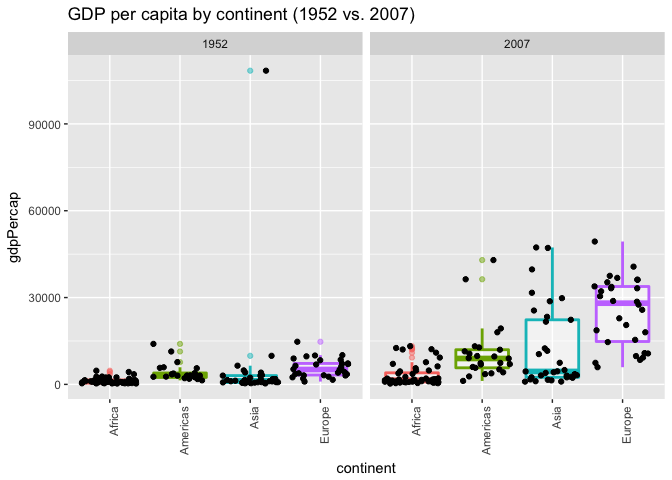
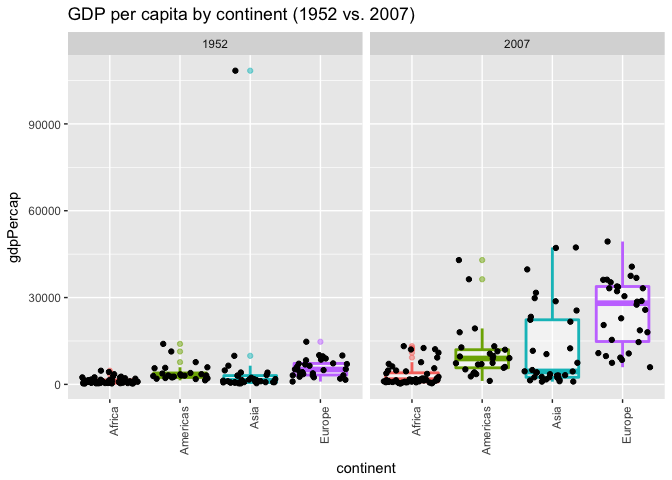
fix jitter typo

diff --git a/hw02/hw02.md b/hw02/hw02.md
@@ -61,35 +61,35 @@ head(gapminder)
 **Q1: Is it a data.frame, a matrix, a vector, a list?** **Q2: What’s its class?**
 
 ``` r
-typeof(gapminder)
+typeof(gapminder) #you can check the type of data with this
 ```
 
     ## [1] "list"
 
 ``` r
-class(gapminder)
+class(gapminder) #this is another easy way to check the class of data
 ```
 
     ## [1] "tbl_df"     "tbl"        "data.frame"
 
-The type of object is a list, but it has three official classes: *data frame tbl, tbl,* and *data frame*
+The type of object is a list, but it has three official classes: *data frame tbl, tbl,* and *data frame*.
 
 **Q3: How many variables/columns?** **Q4: How many rows/observations?**
 
 ``` r
-ncol(gapminder) # You can do this
+ncol(gapminder) # You can do this to check the number of columns
 ```
 
     ## [1] 6
 
 ``` r
-nrow(gapminder) # Plus this
+nrow(gapminder) # Plus this checks the number of rows
 ```
 
     ## [1] 1704
 
 ``` r
-dim(gapminder) # Or just do this!
+dim(gapminder) # Or just do this! It will tell you both! 
 ```
 
     ## [1] 1704    6
@@ -97,9 +97,10 @@ dim(gapminder) # Or just do this!
 There are 6 variables/columns and 1704 rows in this data set.
 
 **Q5: Can you get these facts about “extent” or “size” in more than one way? Can you imagine different functions being useful in different contexts?**
+Let's take a "glimpse" at the data! :)
 
 ``` r
-glimpse(gapminder)
+glimpse(gapminder) # a helpful function for looking at extent/size
 ```
 
     ## Observations: 1,704
@@ -112,7 +113,7 @@ glimpse(gapminder)
     ## $ gdpPercap <dbl> 779.4453, 820.8530, 853.1007, 836.1971, 739.9811, 78...
 
 ``` r
-str(gapminder)
+str(gapminder) # this is another function for looking at extent/size
 ```
 
     ## Classes 'tbl_df', 'tbl' and 'data.frame':    1704 obs. of  6 variables:
@@ -126,7 +127,7 @@ str(gapminder)
 One way you could get these dimensions (and a bunch of other info about the data set) is by using the glimpse or str functions. These function provide the class of each variable, the number of different values for factor variables, and the first few rows for each variable. This could be helpful when you want to find out more info with fewer clicks, and it can also help us answer the next question! :)
 
 **Q6: What flavor is each variable?**
-The country and continent variables are **factors**; the year and pop variables are **integers**; the lifeExp and gdpPercap variables are **numeric**.
+To check the "flavor", I looked at the class of each variable. Check out my original [Rmd file](https://github.com/oktokat/STAT545-hw-harper-kaitlyn/blob/master/hw02/hw02.Rmd) to see how I inserted code into this paragraph!! The country and continent variables are **factors**; the year and pop variables are **integers**; the lifeExp and gdpPercap variables are **numeric**.
 
 <a href="#top">Back to top</a>
 
@@ -186,11 +187,12 @@ First, we'll look at the life expectancy variable as a whole. The minimum life e
 
 ``` r
 # Plot the life expectancy of each country
-ggplot(gapminder, aes(country, lifeExp)) +
-  geom_point() +
-  theme(axis.text.x = element_text(angle = 90, hjust = 1)) +
-  ylab("life expectancy (years)") + 
-  ggtitle("Life expectancy of each country from 1952-2007")
+gapminder %>%                                                 # pipe in data set
+  ggplot(aes(country, lifeExp)) +                             # insert general aesthetics 
+  geom_point() +                                              # add points
+  theme(axis.text.x = element_text(angle = 90, hjust = 1)) +  # arrange text vertically
+  ylab("life expectancy (years)") +                           # add y-axis label
+  ggtitle("Life expectancy of each country from 1952-2007")   # add title
 ```
 
 ![](hw02_files/figure-markdown_github-ascii_identifiers/simple_plots-1.png)
@@ -207,6 +209,7 @@ Here are a few different plots using all the data (no filtering/grouping yet)
 ### Two continuous variables
 
 ``` r
+# Create an object with the data/aesthetics
 a = ggplot(gapminder, aes(x= year, y = lifeExp))
 
 # Plot life expectancy with unadjusted abline
@@ -300,10 +303,11 @@ length(unique(gapminder$year)) # there are 12 different years measured in these 
     ## [1] 12
 
 ``` r
-ggplot(gapminder, aes(x=continent, y=gdpPercap)) +
-  stat_boxplot() +
-  facet_wrap(~ year) +
-  theme(axis.text.x = element_text(angle = 90, hjust = 1))
+gapminder %>% 
+  ggplot(aes(x=continent, y=gdpPercap)) +                   # pipe in data and aes
+  stat_boxplot() +                                          # add boxplot
+  facet_wrap(~ year) +                                      # plot in panels separated by year
+  theme(axis.text.x = element_text(angle = 90, hjust = 1))  # arrange y-axis text vertically
 ```
 
 ![](hw02_files/figure-markdown_github-ascii_identifiers/boxplots_allData-1.png)
@@ -318,23 +322,24 @@ Use filter, select, and pipes!
 ``` r
 # Plot the GDP of all countries (minus Oceania) in 1952 and 2007 
 gapminder %>% 
-  filter(continent != "Oceania", year == 1952 | year == 2007) %>% 
-  ggplot(aes(x=continent, y=gdpPercap)) +
-    stat_boxplot(alpha=1/2, size = 1, aes(color=continent), show.legend = FALSE) +
-    facet_wrap(~ year) +
-    theme(axis.text.x = element_text(angle = 90, hjust = 1)) + 
-    ggtitle("GDP per capita by continent (1952 vs. 2007)")
+  filter(continent != "Oceania", year == 1952 | year == 2007) %>%                      # filter out Oceania, keep only 1952 and 2007
+  ggplot(aes(x=continent, y=gdpPercap)) +                                              # add ggplot aes
+    stat_boxplot(alpha=1/2, size = 1, aes(color=continent), show.legend = FALSE) +     # color the boxes by continent plus adjust the transparency and size; don't show legend
+    facet_wrap(~ year) +                                                               # separate panels by year
+    theme(axis.text.x = element_text(angle = 90, hjust = 1)) +                         # adjust text to be vertical
+    ggtitle("GDP per capita by continent (1952 vs. 2007)")                             # add title
 ```
 
 ![](hw02_files/figure-markdown_github-ascii_identifiers/gap_small-1.png)
 
 ``` r
 # Add each individual country with "jitter"
+# "jitter" adds the points onto the plot, but with a tiny bit of error so they're spread out and easier to see!
 gapminder %>% 
   filter(continent != "Oceania", year == 1952 | year == 2007) %>% 
   ggplot(aes(x=continent, y=gdpPercap)) +
     stat_boxplot(alpha=1/2, size = 1, aes(color=continent), show.legend = FALSE) +
-    geom_jitter() +
+    geom_jitter() + 
     facet_wrap(~ year) +
     theme(axis.text.x = element_text(angle = 90, hjust = 1)) + 
     ggtitle("GDP per capita by continent (1952 vs. 2007)")
@@ -361,7 +366,7 @@ ggplot(asia, aes(gdpPercap, lifeExp)) +
 ![](hw02_files/figure-markdown_github-ascii_identifiers/gap_asia-1.png)
 
 ``` r
-rm(asia)
+rm(asia) # cleanup environment
 ```
 
 Let's explore some common factors in countries that lie below the life expectancy mean. We'll look at only data from 2007.
@@ -369,9 +374,9 @@ Let's explore some common factors in countries that lie below the life expectanc
 ``` r
 # Create a new variable mutate
 gap_mean = gapminder %>%
-  mutate(LEgroup = ifelse(test = (gdpPercap < mean(gdpPercap)), yes = "low", no = "high")) %>% 
-  filter(year == 2007) %>% 
-  select(-year)
+  mutate(LEgroup = ifelse(test = (gdpPercap < mean(gdpPercap)), yes = "low", no = "high")) %>%    #create new variable that keeps only the gdp's below the mean gdp
+  filter(year == 2007) %>%                       # keep only data from 2007
+  select(-year)                                  # get rid of the year variable (it's obsolete now)
 
 head(gap_mean) # Countries now are classified as having "high" or "low" life expectancy
 ```
@@ -413,12 +418,12 @@ Hmmm... what are those outliers in the "low life expectancy" group? Let's check 
 ``` r
 # find the two outliers
 justLOW = gap_mean %>% 
-  filter(LEgroup != "high") %>% 
-  arrange(desc(pop))
+  filter(LEgroup != "high") %>%     # keep only rows that have "high LE"
+  arrange(desc(pop))                # arrange them in descending order to see which ones are the highest outliers
 
 # replot population histogram without outliers
 gap_mean %>%
-  filter(country != "China" & country != "India") %>% 
+  filter(country != "China" & country != "India") %>%    # remove China and India
   ggplot(aes(pop)) +
   geom_density() +
   facet_wrap(~ LEgroup) +
@@ -428,7 +433,7 @@ gap_mean %>%
 ![](hw02_files/figure-markdown_github-ascii_identifiers/remove_outliers-1.png)
 
 ``` r
-rm(justLOW)
+rm(justLOW) #clean up
 ```
 
 Huh, without those outliers the histograms actually seem pretty similar!
@@ -456,7 +461,7 @@ More, more, more!
 -----------------
 
 ``` r
-# what's wrong with this?
+# what's wrong with this? see below for answer!
 new_gap = filter(gapminder, country == c("Rwanda", "Afghanistan"))
 
 new_gap  
